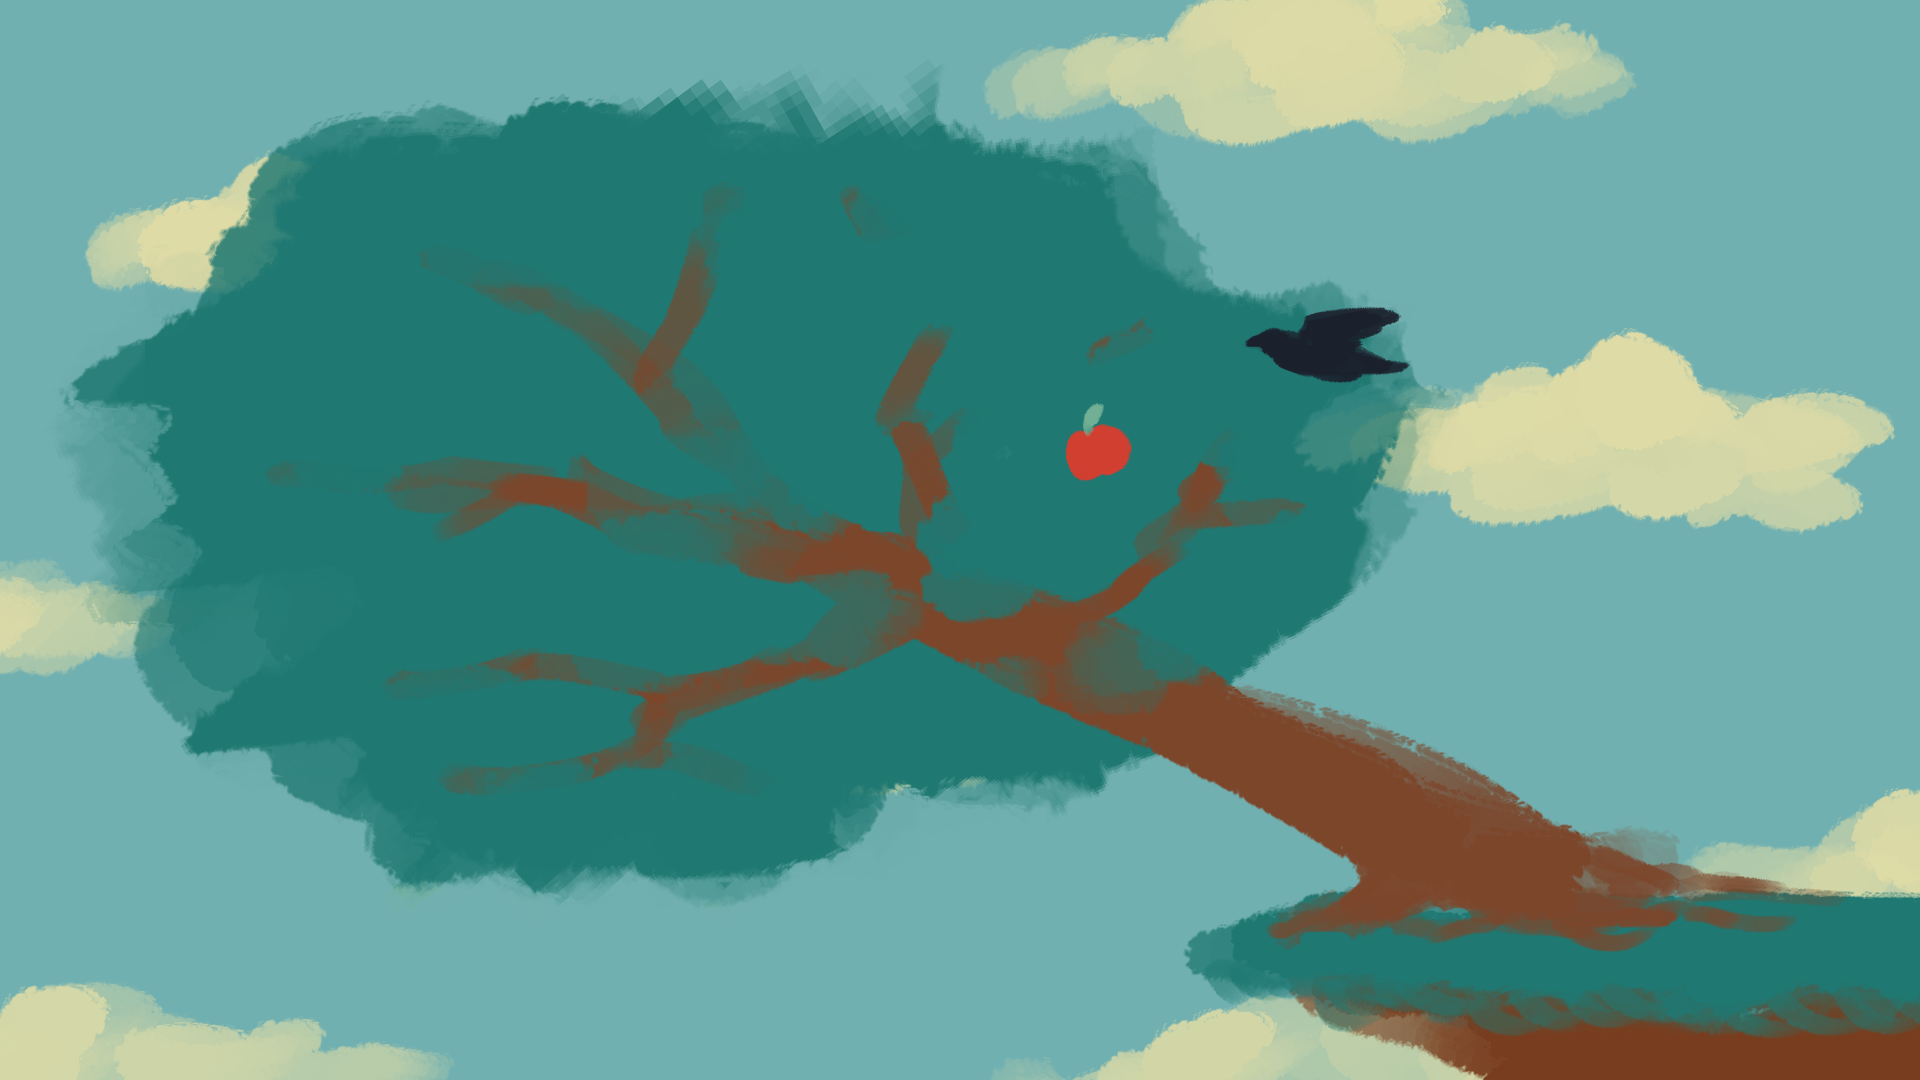
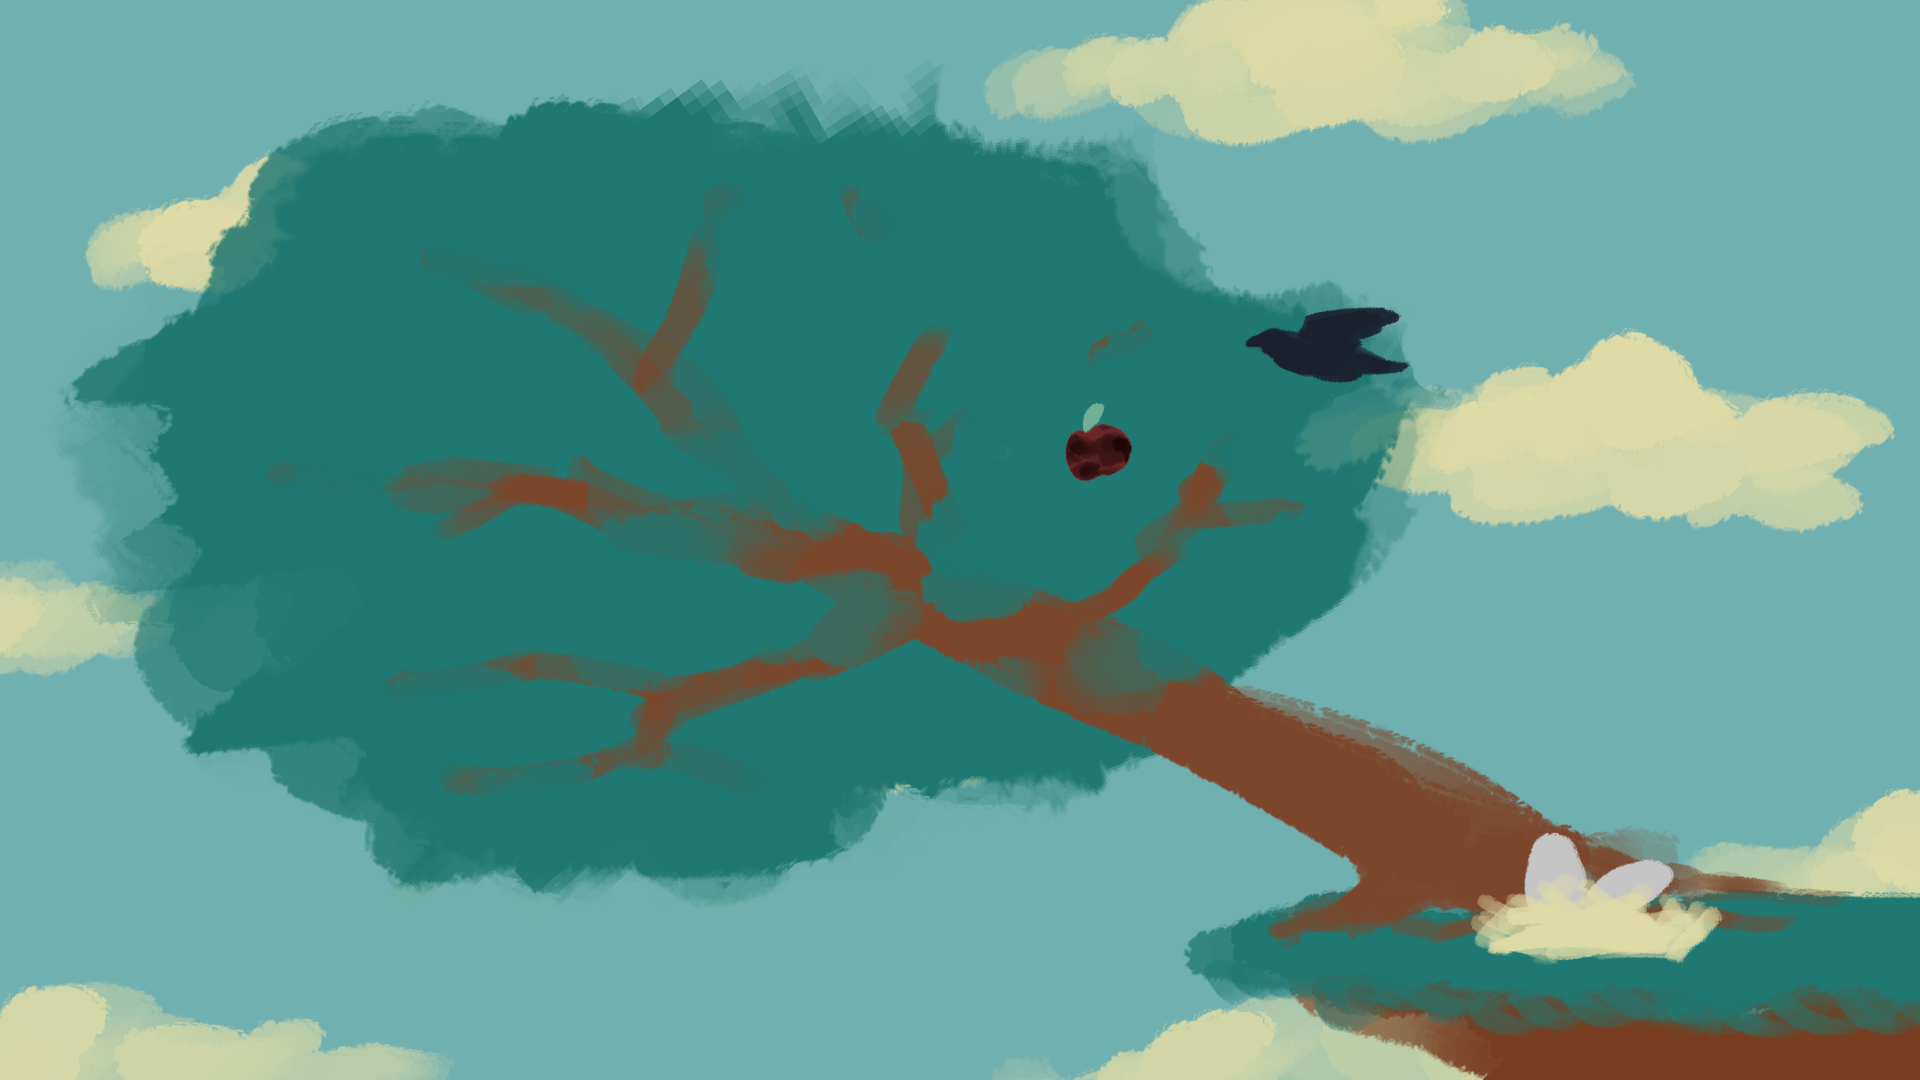
hw2

Changed region(s): [[0.75, 0.7639, 0.9062, 0.8861], [0.5312, 0.3972, 0.5938, 0.4583]]

diff --git a/Homework2_DeleteDeleteDelete/sketch.js b/Homework2_DeleteDeleteDelete/sketch.js
@@ -18,14 +18,22 @@ let leafH_ratio = 0.65; // 세로 크기 살짝 확대 (기존 0.55)
 
 let nextSpawnTime = 0; // 다음 사과가 생성될 시간
 
+//사과나무 흔들어재껴껴겨겨ㅕㄱ겨겨겨겨겨
+let isHoldingTree = false;
+let treePressTime = 0;
+let treeStartX = 0;
+let treeStartY = 0;
+let isTreeShaking = false;
+
 function preload() {
   imgs.sky = loadImage("sky.png");
-  imgs.tree = loadImage("apple_tree.png"); // 절벽 포함된 나무 기둥
-  imgs.leaf = loadImage("leaf.png"); // 나뭇잎
+  imgs.tree = loadImage("apple_tree.png");
+  imgs.leaf = loadImage("leaf.png");
   imgs.apple1 = loadImage("apple_1.png");
   imgs.apple2 = loadImage("apple_2.png");
   imgs.apple3 = loadImage("apple_3.png");
   imgs.bird = loadImage("bird.png");
+  imgs.nest = loadImage("bird_nest.png"); // 👈 [추가] 새 둥지 이미지 로드
 }
 
 function setup() {
@@ -33,7 +41,7 @@ function setup() {
   imageMode(CENTER);
 
   engine = Engine.create();
-  engine.gravity.y = 1;
+  engine.gravity.y = 3.5;
 }
 
 function draw() {
@@ -50,23 +58,95 @@ function draw() {
   // 2. Leaf (하늘 앞, 나무 기둥 뒤)
   image(imgs.leaf, leafX, leafY, leafW, leafH);
 
-  // 3. Apple Tree (나뭇잎 앞, 우측 하단 정렬)
-  let treeW = width * 0.9; // 나무 크기 확대 (기존 0.7에서 0.85로 변경)
-  let treeH = treeW * 0.55; // 나무 세로 비율
+  // 3. Apple Tree 기본 위치
+  let treeW = width * 0.85;
+  let treeH = treeW * 0.55;
   let treeX = width - treeW / 2 + 50;
   let treeY = height - treeH / 2;
-  image(imgs.tree, treeX, treeY, treeW, treeH);
 
-  // 4. 사과 무작위 생성 (0.5초 ~ 2초 간격)
+  let renderTreeX = treeX;
+  let renderTreeY = treeY;
+  let renderLeafX = leafX;
+  let renderLeafY = leafY;
+
+  // 💡 [좌우 왕복 흔들기 및 누적 시간 2초 조건 로직 (0.2초 유예 시간 적용)]
+  if (isHoldingTree && mouseIsPressed) {
+    // 이전 프레임과 비교하여 마우스가 좌우로 움직인 방향(변화량) 체크
+    let deltaX = mouseX - pmouseX;
+
+    // 좌우로 왔다 갔다 하는지 확인하기 위해 방향 전환 감지 변수 활용
+    let isMovingBackAndForth = abs(deltaX) > 0.3; // 판정을 살짝 널널하게(0.3) 조정
+
+    if (isMovingBackAndForth) {
+      isTreeShaking = true;
+      let shakeX = random(-6, 6);
+      let shakeY = random(-6, 6);
+
+      renderTreeX += shakeX;
+      renderTreeY += shakeY;
+      renderLeafX += shakeX;
+      renderLeafY += shakeY;
+
+      // 움직임이 감지될 때마다 최근 활동 시간(lastActiveTime)을 갱신합니다.
+      lastActiveTime = millis();
+
+      // 💡 흔들고 있는 동안에만 유효한 누적 시간 증가
+      if (typeof shakeStartTime === "undefined") {
+        shakeStartTime = millis(); // 흔들기 시작한 시점
+      }
+
+      let shakenDuration = millis() - shakeStartTime; // 실제 흔든 누적 시간
+
+      // 흔들린 누적 시간이 2초(2000밀리초) 이상이 되면 사과 전체 낙하!
+      if (shakenDuration >= 2000) {
+        for (let a of apples) {
+          if (a.state === "ATTACHED") {
+            a.fall(true);
+          }
+        }
+        isHoldingTree = false;
+        isTreeShaking = false;
+        shakeStartTime = undefined;
+        lastActiveTime = undefined;
+      }
+    } else {
+      // 💡 마우스 움직임이 멈췄더라도, 마지막 활동 시간으로부터 0.2초(200ms) 이내라면 시간을 리셋하지 않고 유지합니다!
+      if (
+        typeof lastActiveTime !== "undefined" &&
+        millis() - lastActiveTime < 200
+      ) {
+        isTreeShaking = true; // 떨림 유지
+        // shakeStartTime은 유지되므로 시간이 리셋되지 않음
+      } else {
+        // 0.2초 이상 완전히 멈춰있을 때만 리셋
+        isTreeShaking = false;
+        shakeStartTime = undefined;
+      }
+    }
+  } else {
+    isHoldingTree = false;
+    isTreeShaking = false;
+    shakeStartTime = undefined;
+    lastActiveTime = undefined;
+  }
+
+  // 💡 흔들림이 적용된 좌표로 나뭇잎과 나무 출력
+  image(imgs.leaf, renderLeafX, renderLeafY, leafW, leafH);
+
+  // (이 사이에 사과들을 그리는 루프가 위치합니다)
+
+  image(imgs.tree, renderTreeX, renderTreeY, treeW, treeH);
+
+  // 4. 🍎 사과 무작위 생성 (0.5초 ~ 2초 간격) -> 이 코드가 있는지 확인하세요!
   if (millis() > nextSpawnTime) {
     spawnApple(leafX, leafY, leafW, leafH);
-    nextSpawnTime = millis() + random(500, 2000);
+    nextSpawnTime = millis() + random(400, 1500);
   }
 
-  // 5. 새 생성
-  if (frameCount % 130 === 0 && random() > 0.3) {
-    birds.push(new Bird(leafY, leafH));
-  }
+  // 5. 나무 아래 절벽 쪽에 새 둥지 그리기
+  let nestX = width * 0.82; // 둥지 X 위치 (필요시 조절 가능)
+  let nestY = height * 0.835; // 둥지 Y 위치
+  image(imgs.nest, nestX, nestY, 100, 70); // 둥지 크기 (가로 90, 세로 70)
 
   // 6. 새 업데이트 및 그리기
   for (let i = birds.length - 1; i >= 0; i--) {
@@ -197,7 +277,7 @@ class Bird {
 
     // 나뭇잎 높이 부근에서 비행
     this.y = leafY + random(-leafH * 0.3, leafH * 0.3);
-    this.speed = random(4, 9);
+    this.speed = random(6, 11);
     this.w = 80;
     this.h = 50;
     this.hasApple = false;
@@ -230,17 +310,53 @@ function spawnApple(cx, cy, w, h) {
   apples.push(new Apple(spawnX, spawnY));
 }
 
-// 마우스 클릭 시 사과 떨어뜨리기 (클릭했으므로 true 전달)
 function mousePressed() {
+  let leafY = height * leafY_ratio;
+  let leafH = height * leafH_ratio;
+
+  // 1. 🍎 개별 사과를 클릭했는지 가장 먼저 체크 (레벨 1)
   for (let a of apples) {
     if (a.state === "ATTACHED") {
       let d = dist(mouseX, mouseY, a.body.position.x, a.body.position.y);
       if (d < a.r) {
-        a.fall(true); // 👈 true를 전달하여 톡 튀어오르게 만듦
-        break;
+        a.fall(true); // 마우스 클릭 시 톡 튀어오름
+        return; // 사과를 클릭했으면 아래 나무/둥지 로직은 실행 안 함
       }
     }
   }
+
+  // 2. 새 둥지 클릭 체크
+  let nestX = width * 0.82;
+  let nestY = height * 0.835;
+  let dNest = dist(mouseX, mouseY, nestX, nestY);
+  if (dNest < 45) {
+    birds.push(new Bird(leafY, leafH));
+    return;
+  }
+
+  // 3. 🌳 나무(apple_tree)를 누르기 시작했는지 체크
+  let treeW = width * 0.85;
+  let treeH = treeW * 0.55;
+  let treeX = width - treeW / 2 + 50;
+  let treeY = height - treeH / 2;
+
+  if (
+    mouseX > treeX - treeW / 2 &&
+    mouseX < treeX + treeW / 2 &&
+    mouseY > treeY - treeH / 2 &&
+    mouseY < treeY + treeH / 2
+  ) {
+    isHoldingTree = true;
+    treePressTime = millis();
+    treeStartX = mouseX;
+    treeStartY = mouseY;
+  }
+}
+
+// 💡 [추가] 마우스를 뗄 때 상태 초기화
+function mouseReleased() {
+  isHoldingTree = false;
+  isTreeShaking = false;
 }
 
 function windowResized() {
